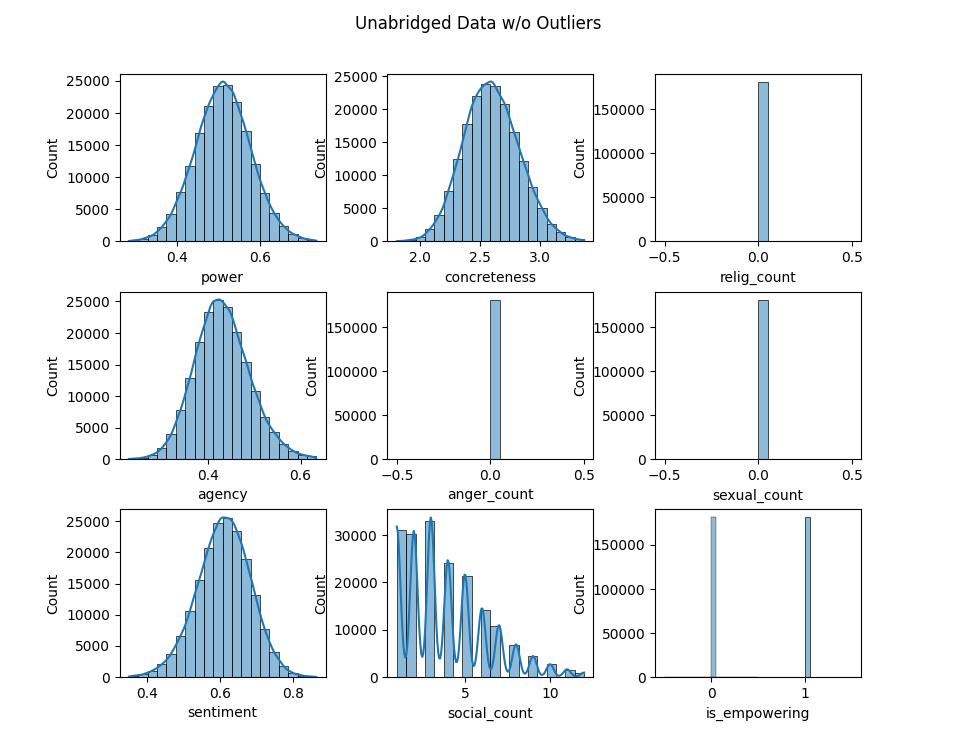
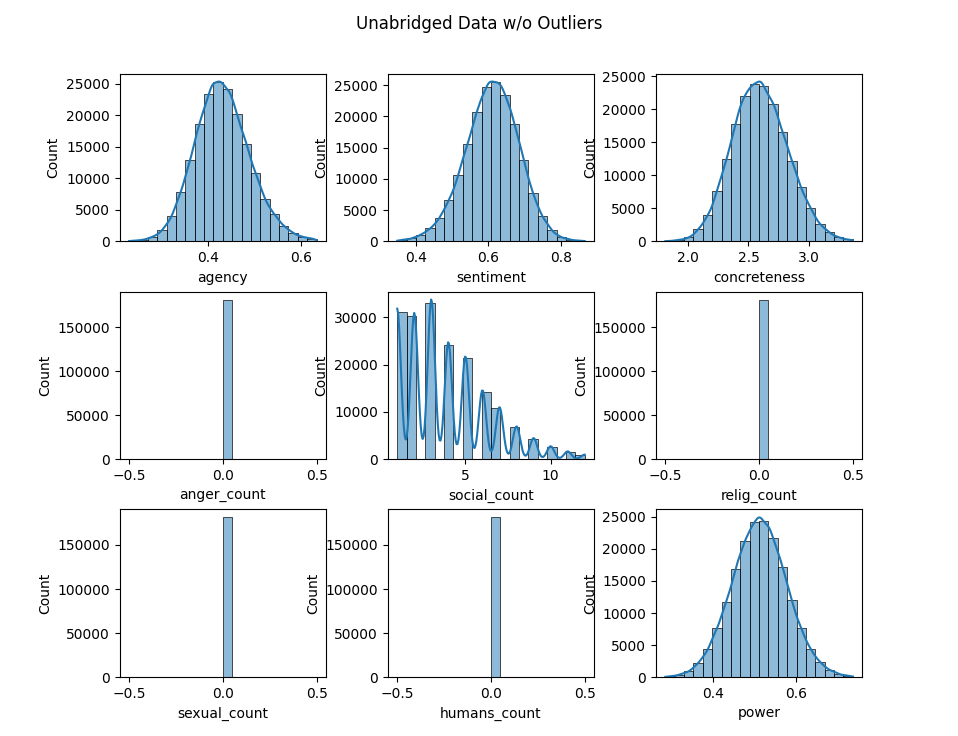
Fixing minor bugs in plotting and remaking descriptive stats

diff --git a/logistic_regression.py b/logistic_regression.py
@@ -86,24 +86,24 @@ if __name__ == "__main__":
         'Abridged Data w/o Outliers': data_abridged_no_outliers
     }
 
-    # for dataset_name, dataset in different_datasets.items():
-    #     # Plot a few selected columns
-    #     plot_data(
-    #         plot_type="boxplot",
-    #         data=dataset, 
-    #         fig_title=dataset_name, 
-    #         subplot_names=['is_empowering', 'power', 'agency', 'sentiment', 'concreteness', "anger_count", "social_count", "relig_count", "sexual_count","humans_count"], 
-    #         num_rows=3,
-    #         num_cols=3
-    #     )
-    #     plot_data(
-    #         plot_type="pdf",
-    #         data=dataset, 
-    #         fig_title=dataset_name, 
-    #         subplot_names=['is_empowering', 'power', 'agency', 'sentiment', 'concreteness', "anger_count", "social_count", "relig_count", "sexual_count","humans_count"], 
-    #         num_rows=3,
-    #         num_cols=3
-    #     )
+    for dataset_name, dataset in different_datasets.items():
+        # Plot a few selected columns
+        plot_data(
+            plot_type="boxplot",
+            data=dataset, 
+            fig_title=dataset_name, 
+            subplot_names=['power', 'agency', 'sentiment', 'concreteness', "anger_count", "social_count", "relig_count", "sexual_count","humans_count"], 
+            num_rows=3,
+            num_cols=3
+        )
+        plot_data(
+            plot_type="pdf",
+            data=dataset, 
+            fig_title=dataset_name, 
+            subplot_names=['power', 'agency', 'sentiment', 'concreteness', "anger_count", "social_count", "relig_count", "sexual_count","humans_count"], 
+            num_rows=3,
+            num_cols=3
+        )
 
     models = {}
 

diff --git a/utils.py b/utils.py
@@ -272,7 +272,7 @@ def plot_data(plot_type, data, fig_title, subplot_names=None, num_rows=4, num_co
         elif plot_type == "pdf":
             sns.histplot(
                 data[column_name], 
-                ax=axs[axs_x, axs_y], 
+                ax=axs[axs_y, axs_x], 
                 # hist=True, 
                 kde=True, 
                 bins=int(20)
